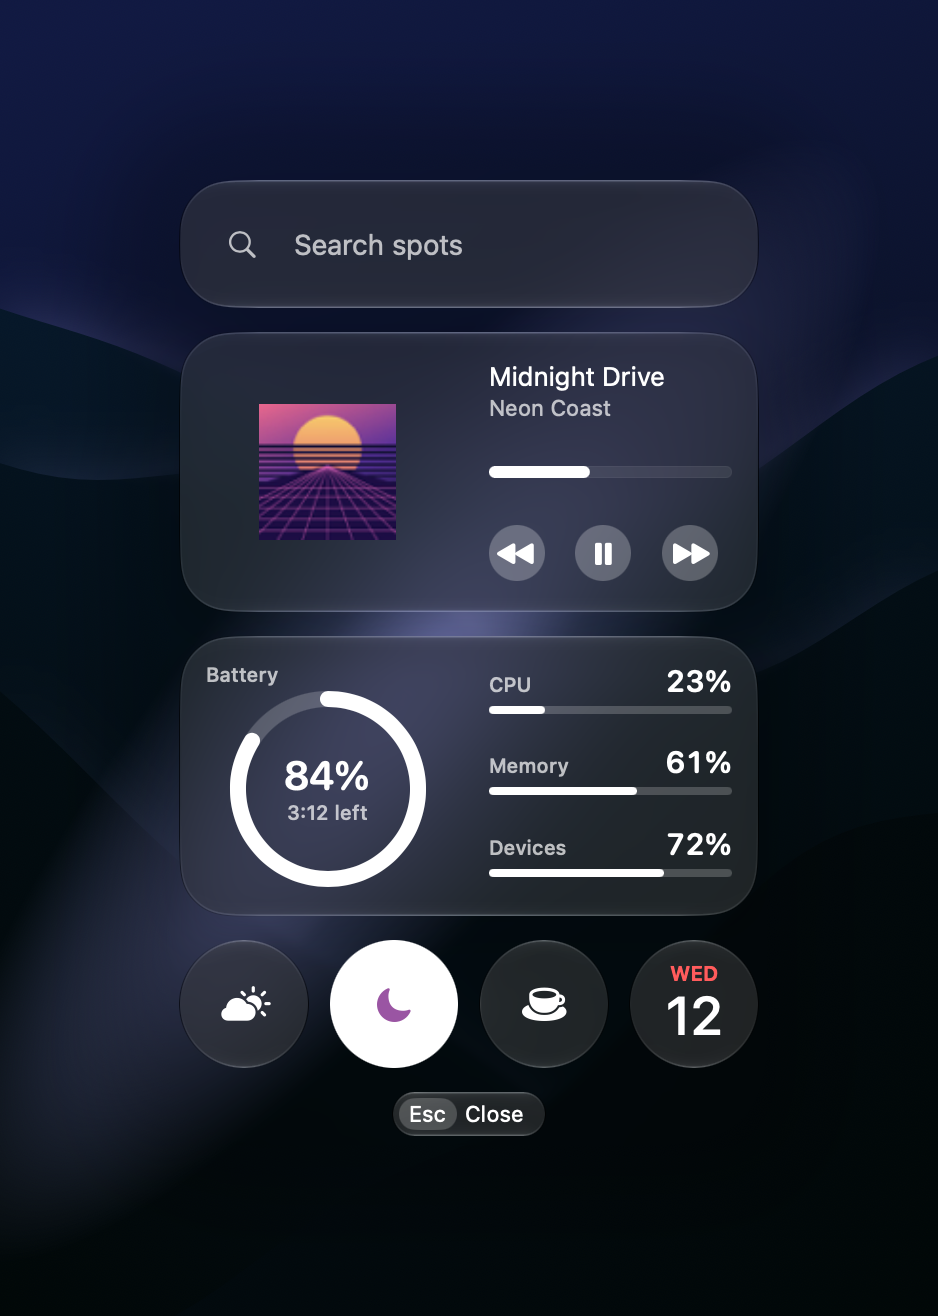
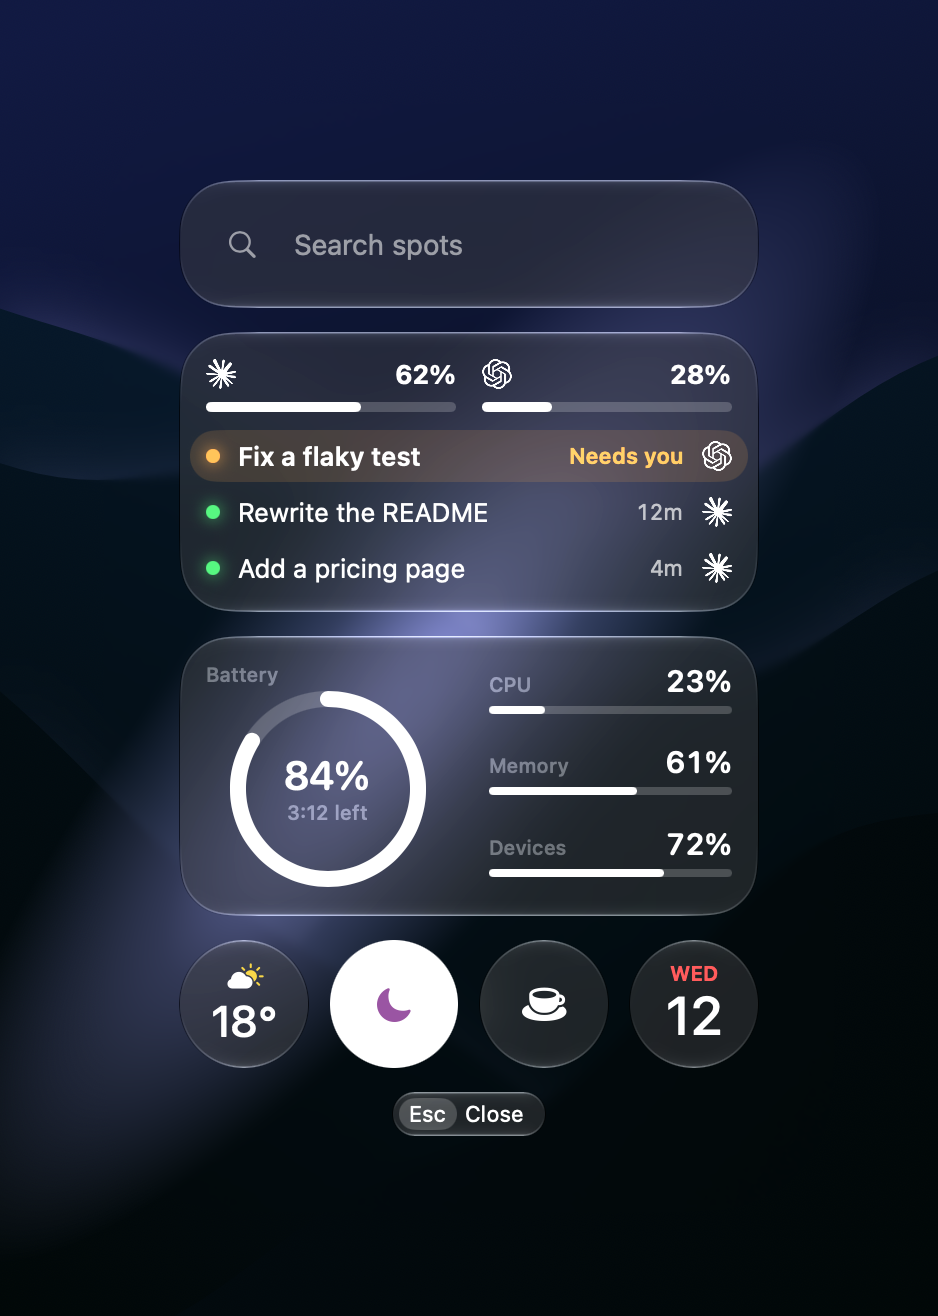
docs: update readme

diff --git a/README.md b/README.md
@@ -1,36 +1,120 @@
 <div align="center">
   <img src="app/Shell/Assets.xcassets/AppIcon.appiconset/icon_256x256@2x.png" width="160" alt="Openspot icon">
   <h1>Openspot</h1>
-  <p><strong>The macOS launcher that grows with you.</strong><br>Each tool is one file that you can send to a friend.</p>
+  <p><strong>The macOS launcher that your coding agent extends.</strong></p>
   <p>
     <a href="https://github.com/celishq/openspot/releases/latest">Download</a> ·
-    <a href="GUIDE.md">Make a tool</a> ·
-    <a href="CONTRIBUTING.md">Contribute</a>
+    <a href="GUIDE.md">Documentation</a> ·
+    <a href="CONTRIBUTING.md">Contributing</a> ·
+    <a href="#roadmap-and-status">Roadmap</a>
   </p>
-  <sub>Requires macOS 26 or later.</sub>
 </div>
 
 <br>
 
-<p align="center"><img src="docs/images/panel.png" width="469" alt="The Openspot panel: a search field over a Now playing card, the System card, and small cards for weather, Focus, coffee and the date"></p>
+<!-- Demo video: replace the picture below with the video link from GitHub's editor. -->
+<p align="center"><img src="docs/images/panel.png" width="469" alt="The Openspot panel: a search field over an Agents card with usage limits and tasks, the System card, and small cards for the weather, Focus, coffee and the date"></p>
 
-Openspot is a minimal launcher for your Mac, like Spotlight. Tell your coding agent what a tool should do, and a moment
-later it is in your launcher. You need no Xcode, no developer account and no release.
+## About
+
+If you use coding agents, you've probably started making small tools for yourself, like something that watches your
+pull requests or a controller for the lamps in your room. On macOS, each of those quietly turns into an app, and that's
+where it gets annoying, with permission prompts for every new one, a paid Apple developer account just to send it to a
+friend, and another Xcode build whenever you want to change a line.
+
+Openspot is the launcher we built so these tools don't have to be apps. Each tool (we call them spots) is just an
+executable that prints a few lines of plain text, and Openspot turns that into native UI on a panel you open with a
+hotkey, with cards, lists, buttons and search results that look like they belong on a Mac. When a script needs more, it
+can bring its own SwiftUI view, and when it needs the system, the `openspot` command gives it the screen, the
+clipboard, calendars, windows and more as we add them.
+
+If this sounds a bit like [SwiftBar](https://github.com/swiftbar/SwiftBar) or [Hammerspoon](https://github.com/Hammerspoon/hammerspoon), it is, and we've used both a lot. SwiftBar showed us how far you can
+get with stdout, but it lives in the menu bar, and Hammerspoon gives you the macOS APIs, but in Lua and mostly in one
+big config. Openspot sits somewhere in between.
 
 ## Features
 
-- **Fastest.** Openspot opens the instant you press your key, and it stays light on your Mac.
-- **Made for agents.** Describe the tool you want, and your agent knows how to build it.
-- **Easy to share.** Send a tool to a friend as one file. They see what it does before they add it.
-- **Yours to shape.** Move and resize the cards, or give a tool a look of its own.
-- **Any language.** Write a tool in shell, Python, Swift or whatever you like.
+- Write a spot in whatever you like (shell, Python, Swift, Go) and check its output right in the terminal
+- Liquid Glass, keyboard navigation and search come with every spot, with no UI code
+- Agents are good at writing spots, since a spot is just a CLI with text in and text out
+- Permissions live with Openspot, so a new tool doesn't mean a new round of prompts
+- Hot reload, so a change shows up a few seconds after you save
+- A spot is one signed file you can drop in a chat, with no Apple developer account or notarization involved
 
-## Get started
+## Download
 
-1. Download the [latest release](https://github.com/celishq/openspot/releases/latest).
+1. Download the [latest release](https://github.com/celishq/openspot/releases/latest). It needs macOS 26 or later.
 2. Open the disk image and drag Openspot to Applications.
-3. Open Openspot and press `⌃Space`. You can change the key in Settings.
+3. Open it and hit `⌃Space`. That's it.
+
+## Your first spot
+
+A spot is just a script that prints a few lines, and Openspot draws them. Here's a small one that lists whatever is
+listening on a port and kills the process when you press its row, which comes in handy when something is sitting on
+:3000. Save it as `ports.sh` and open it with `openspot playground open ports.sh`:
+
+```sh
+#!/bin/sh
+# title=Ports
+# icon=network
+# on=sheet.open
+[ "$1" = open ] && kill "$2"
+lsof -nP -iTCP -sTCP:LISTEN | awk 'NR > 1 && !seen[$2]++ {
+  sub(/.*:/, ":", $9)
+  printf "row=%s\ntitle=%s\ndetail=%s\n\n", $2, $9, $1
+}'
+```
+
+<p align="center"><img src="docs/images/ports.png" width="385" alt="The sheet of Ports: four rows, :3000 node, :5432 postgres, :8080 python3 and :6379 redis-server"></p>
+
+That's most of the model. The [guide](GUIDE.md) goes through the rest (lists, buttons, cards, your own SwiftUI views)
+one task at a time, and the [protocol](PROTOCOL.md) has every rule.
+
+## Security
+
+Security is a bit of a tradeoff here. Anything you write yourself runs with Openspot's permissions, which we call yolo
+mode, while spots from other people run in a sandbox through `sandbox-exec`. We know it's deprecated, but Bazel, Nix and
+Codex CLI still rely on the same Seatbelt sandbox, and every spot ships as source anyway, so you or your agent can read
+it before you add it.
+
+## Contributing
+
+Fixes and new spots are very welcome. Please skim [CONTRIBUTING.md](CONTRIBUTING.md) before you open a pull request,
+it's short and it explains how to build the app and what to run before you push.
+
+## Roadmap and Status
+
+Openspot is in beta, and we use it every day, but the protocol is still a draft, and version 2.0 is going to break it
+once.
+
+|  #  | Step                                                    | Status |
+| :-: | ------------------------------------------------------- | :----: |
+|  1  | A native launcher whose tools are executables           |   ✅   |
+|  2  | The macOS APIs as a CLI, with more APIs coming          |   🚧   |
+|  3  | Signed spots, with others' spots in a sandbox           |   ✅   |
+|  4  | Protocol 2.0, stable                                    |   🚧   |
+|  5  | A store on Nostr                                        |   🚧   |
+|  6  | Any spot in any place: panel, menu bar, floating window |   ❌   |
+|  7  | Per-spot permissions, enforced by Openspot              |   ❌   |
+|  8  | macOS before 26                                         |   ❌   |
+
+#### Protocol 2.0
+
+The current [protocol](PROTOCOL.md) grew one feature at a time, and it shows. For 2.0 we're rebuilding it around a
+single idea, where a spot gets one message in through its arguments and stdin and prints frames out, and whatever a
+spot says about itself moves from comments in the script into a `spot.toml`. We'll migrate every spot that ships with
+Openspot, yours will need a small change, and after 2.0 only a major version is allowed to break a spot.
+
+#### A store on Nostr
+
+Spots are already signed with Nostr keys, and the store is going to live on Nostr too, because we don't want to be the
+ones who decide what people can share. You'll be able to run your own relays.
+
+#### Per-spot permissions
+
+Right now a spot lists the APIs it uses, and Openspot shows you each use after the fact. The next step is for Openspot
+to refuse any call that the spot didn't declare.
 
 ## License
 
-[MIT](LICENSE)
+MIT, see [LICENSE](LICENSE). The core will stay free.
